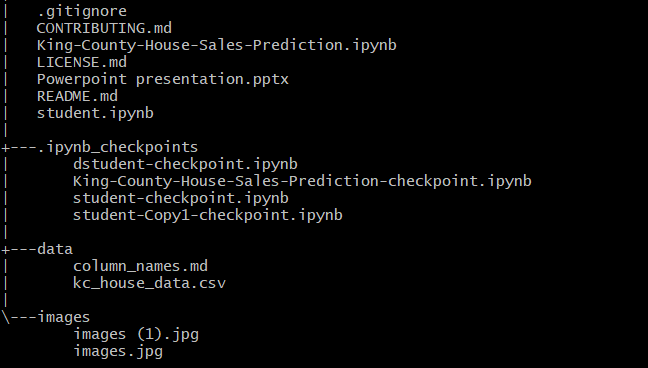
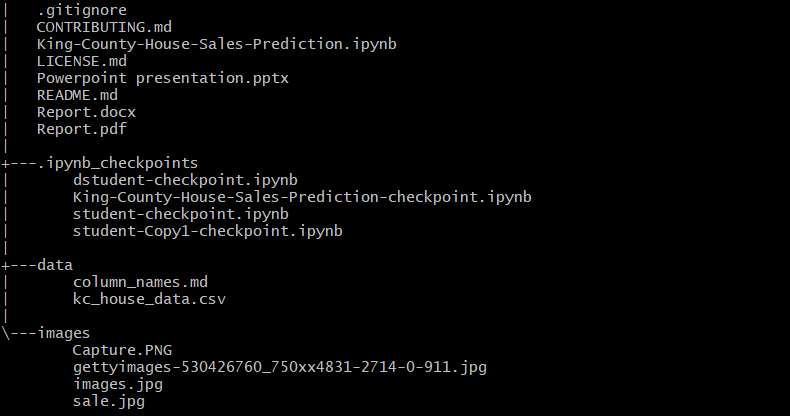
Repository Structure on README

Changed region(s): [[0.0, 0.0, 0.8333, 0.9864]]

diff --git a/README.md b/README.md
@@ -1,6 +1,6 @@
 # Kings County House Sales Prediction
 
-![another_homes_stock_photo](images/sale.jpg)
+![homes_stock_photo](images/gettyimages-530426760_750xx4831-2714-0-911.jpg)
 
 #### Authors: Maureen Kitanga, Samuel Kyalo, Priscila Kamiri, Leo Kariuki, Jimcollins Wamae & Steve Githinji
 
@@ -81,7 +81,7 @@ A further study may be required with a larger dataset for better insights.
 See the full analysis in the [Jupyter Notebook](https://github.com/stevegithinji/King-County-House-Sales-Model/blob/master/King-County-House-Sales-Prediction.ipynb) or review this [presentation](https://github.com/stevegithinji/King-County-House-Sales-Model/blob/master/Powerpoint%20presentation.pptx).
 
 
-![homes_stock_photo](images/images.jpg)
+![another_homes_stock_photo](images/sale.jpg)
 
 
 ## Repository Structure
